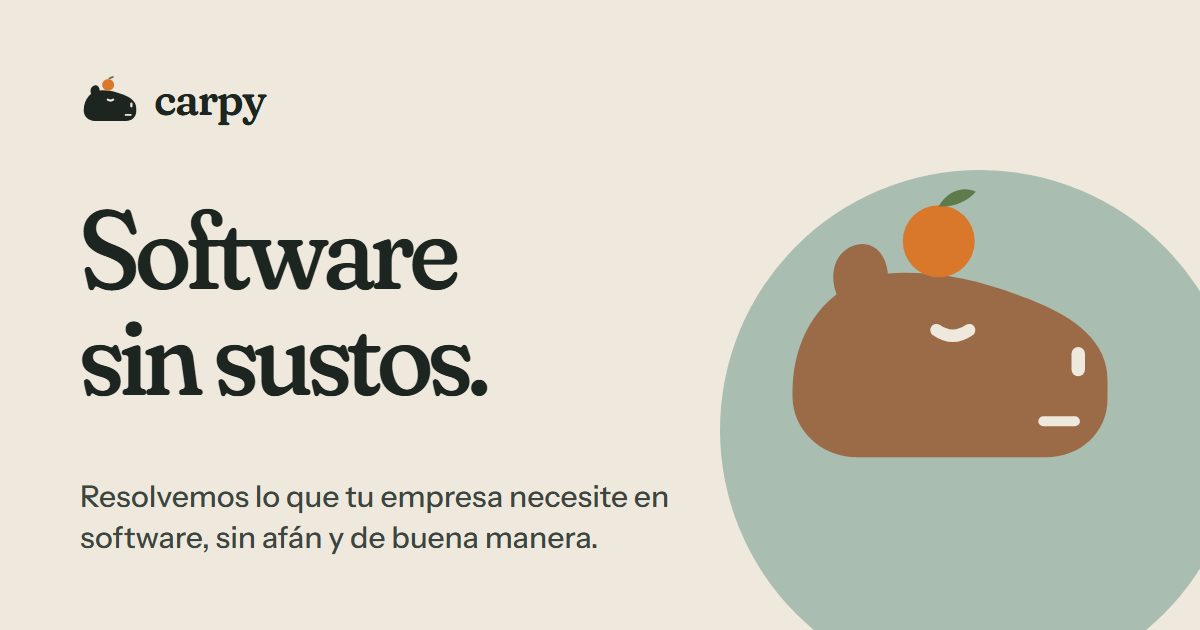
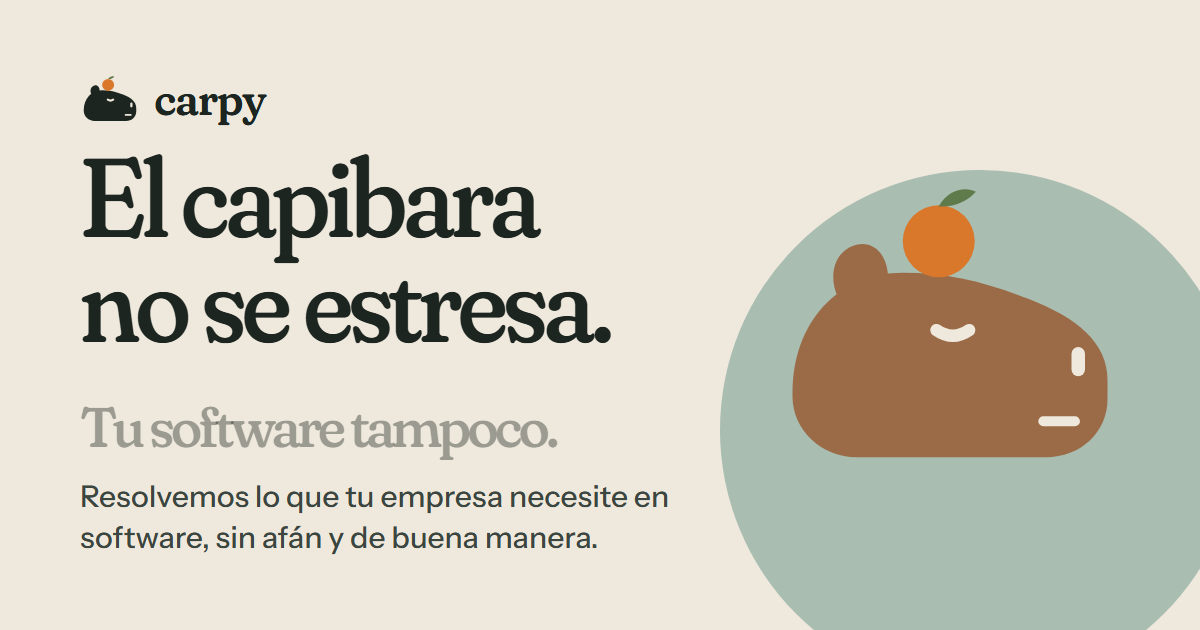
Nuevo slogan: El capibara no se estresa. Tu software tampoco.
En el hero, el sello giratorio del equipo, los títulos para redes y la imagen para compartir.

Changed region(s): [[0.0617, 0.2413, 0.5242, 0.7238]]

diff --git a/assets-src/og.html b/assets-src/og.html
@@ -15,7 +15,7 @@ p{font-size:30px;font-weight:500;color:#3c4640;margin:0;max-width:640px;line-hei
 <svg class="capy" viewBox="0 -10 64 54" fill="#9b6b47"><path d="M12.2 11.8c-2.2-4.4-.4-8.8 3.2-9.6 3.4-.7 5.8 2.2 5.6 6.8z"/><path d="M4 28.4C4 16.4 11.8 7.2 23.6 7.2c8.2 0 14.4 1.6 22.2 4.6C54.6 15.2 60 19.6 60 26.4v3.2C60 35.6 55.2 40 49 40H15.4C9.2 40 4 35.2 4 29.2z"/><path d="M29.6 17.4q2.9 2 5.8 0" fill="none" stroke="#efe9dd" stroke-width="2.2" stroke-linecap="round"/><rect x="53.6" y="20.4" width="2.4" height="5.2" rx="1.2" fill="#efe9dd"/><path d="M48.6 33.6h5.6" stroke="#efe9dd" stroke-width="1.8" stroke-linecap="round"/><circle cx="30" cy="1.6" r="6.4" fill="#d9772b"/><path d="M30 -4.6c1.6-3 4.8-3.6 6.6-2.6-1.6 1.8-4 2.8-6.6 2.6z" fill="#5f7a4b"/></svg>
 <div class="wrap">
 <div class="logo"><svg viewBox="0 -10 64 54" width="60" fill="#1d2521"><path d="M12.2 11.8c-2.2-4.4-.4-8.8 3.2-9.6 3.4-.7 5.8 2.2 5.6 6.8z"/><path d="M4 28.4C4 16.4 11.8 7.2 23.6 7.2c8.2 0 14.4 1.6 22.2 4.6C54.6 15.2 60 19.6 60 26.4v3.2C60 35.6 55.2 40 49 40H15.4C9.2 40 4 35.2 4 29.2z"/><path d="M29.6 17.4q2.9 2 5.8 0" fill="none" stroke="#efe9dd" stroke-width="2.2" stroke-linecap="round"/><rect x="53.6" y="20.4" width="2.4" height="5.2" rx="1.2" fill="#efe9dd"/><path d="M48.6 33.6h5.6" stroke="#efe9dd" stroke-width="1.8" stroke-linecap="round"/><circle cx="30" cy="1.6" r="6.4" fill="#d9772b"/><path d="M30 -4.6c1.6-3 4.8-3.6 6.6-2.6-1.6 1.8-4 2.8-6.6 2.6z" fill="#5f7a4b"/></svg>carpy</div>
-<h1>Software<br>sin sustos.</h1>
+<h1>El capibara<br>no se estresa.<br><span style="color:#1d252166;font-size:.5em">Tu software tampoco.</span></h1>
 <p>Resolvemos lo que tu empresa necesite en software, sin afán y de buena manera.</p>
 </div>
 </body></html>

diff --git a/src/components/sections/hero/Hero.tsx b/src/components/sections/hero/Hero.tsx
@@ -29,13 +29,17 @@ export function Hero() {
           <div className="lg:col-span-6">
             <h1
               id="hero-title"
-              className="font-display text-[clamp(3.3rem,11vw,6.6rem)] font-medium leading-[0.94] tracking-[-0.035em] text-ink"
+              className="font-display text-[clamp(2.9rem,10.5vw,5.6rem)] font-medium leading-[0.95] tracking-[-0.035em] text-ink"
             >
               <span className="block">
-                <SplitWords trigger="mount" text="Software" delay={0.1} />
+                <SplitWords trigger="mount" text="El capibara" delay={0.1} />
               </span>
               <span className="block">
-                <SplitWords trigger="mount" text="sin sustos." delay={0.22} />
+                <SplitWords trigger="mount" text="no se estresa." delay={0.22} />
+              </span>
+              {/* Remate en gris: la promesa. */}
+              <span className="mt-3 block text-[0.5em] leading-[1.1] tracking-[-0.02em] text-ink/45">
+                <SplitWords trigger="mount" text="Tu software tampoco." delay={0.42} />
               </span>
             </h1>
             <motion.p
@@ -44,7 +48,7 @@ export function Hero() {
               transition={{ duration: 0.9, delay: 0.55, ease }}
               className="mt-6 max-w-[30rem] text-[1.15rem] font-medium sm:mt-8 leading-[1.5] text-ink-2 sm:text-[1.3rem]"
             >
-              Resolvemos lo que tu empresa necesite en software, sin afán y de buena manera, como el capibara.
+              Resolvemos lo que tu empresa necesite en software, sin afán y de buena manera.
             </motion.p>
             <motion.p
               initial={{ opacity: 0, y: 16 }}

diff --git a/index.html b/index.html
@@ -17,7 +17,7 @@
     <meta property="og:type" content="website" />
     <meta property="og:locale" content="es_CO" />
     <meta property="og:site_name" content="carpy" />
-    <meta property="og:title" content="Software sin sustos | carpy" />
+    <meta property="og:title" content="El capibara no se estresa | carpy" />
     <meta property="og:description" content="Resolvemos lo que tu empresa necesite en software, sin afán y de buena manera." />
     <meta property="og:url" content="%SITE_URL%/" />
     <meta property="og:image" content="%SITE_URL%/og-image.png" />
@@ -25,7 +25,7 @@
     <meta property="og:image:height" content="630" />
     <meta property="og:image:alt" content="carpy: software a medida, integraciones y auditoría" />
     <meta name="twitter:card" content="summary_large_image" />
-    <meta name="twitter:title" content="Software sin sustos | carpy" />
+    <meta name="twitter:title" content="El capibara no se estresa | carpy" />
     <meta name="twitter:description" content="Resolvemos lo que tu empresa necesite en software, sin afán y de buena manera." />
     <meta name="twitter:image" content="%SITE_URL%/og-image.png" />
     <!--json-ld-->

diff --git a/src/components/sections/team/TeamCard.tsx b/src/components/sections/team/TeamCard.tsx
@@ -104,7 +104,7 @@ export function TeamCard({ member, layout = "column", variants, seal = false, to
                     <path id={`sello-${member.id}`} d="M60 60 m-44 0 a44 44 0 1 1 88 0 a44 44 0 1 1 -88 0" />
                   </defs>
                   <text className="fill-ink font-sans text-[11.5px] font-semibold tracking-[0.16em]">
-                    <textPath href={`#sello-${member.id}`}>SOFTWARE SIN SUSTOS · CARPY · </textPath>
+                    <textPath href={`#sello-${member.id}`}>EL CAPIBARA NO SE ESTRESA · </textPath>
                   </text>
                 </motion.svg>
                 <svg viewBox="0 0 20 20" className="absolute left-1/2 top-1/2 h-8 w-8 -translate-x-1/2 -translate-y-1/2">
